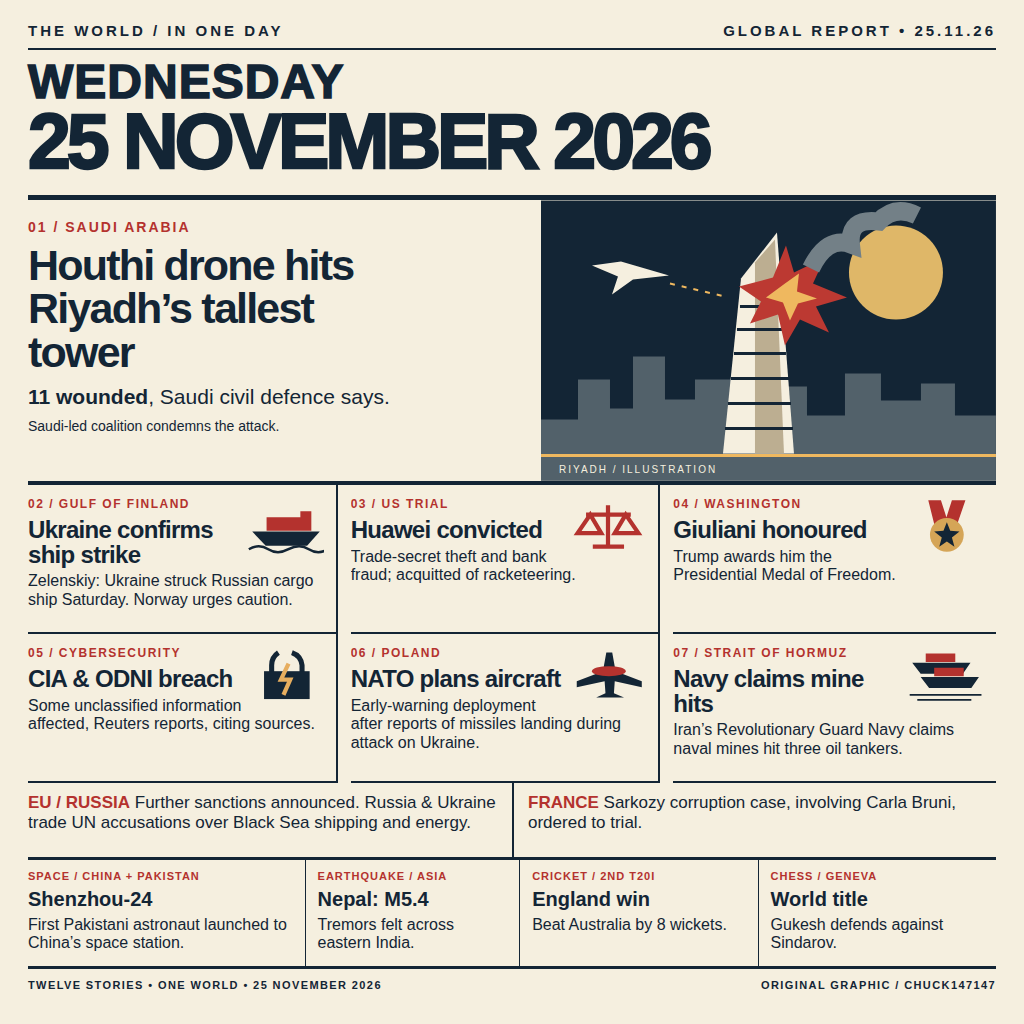
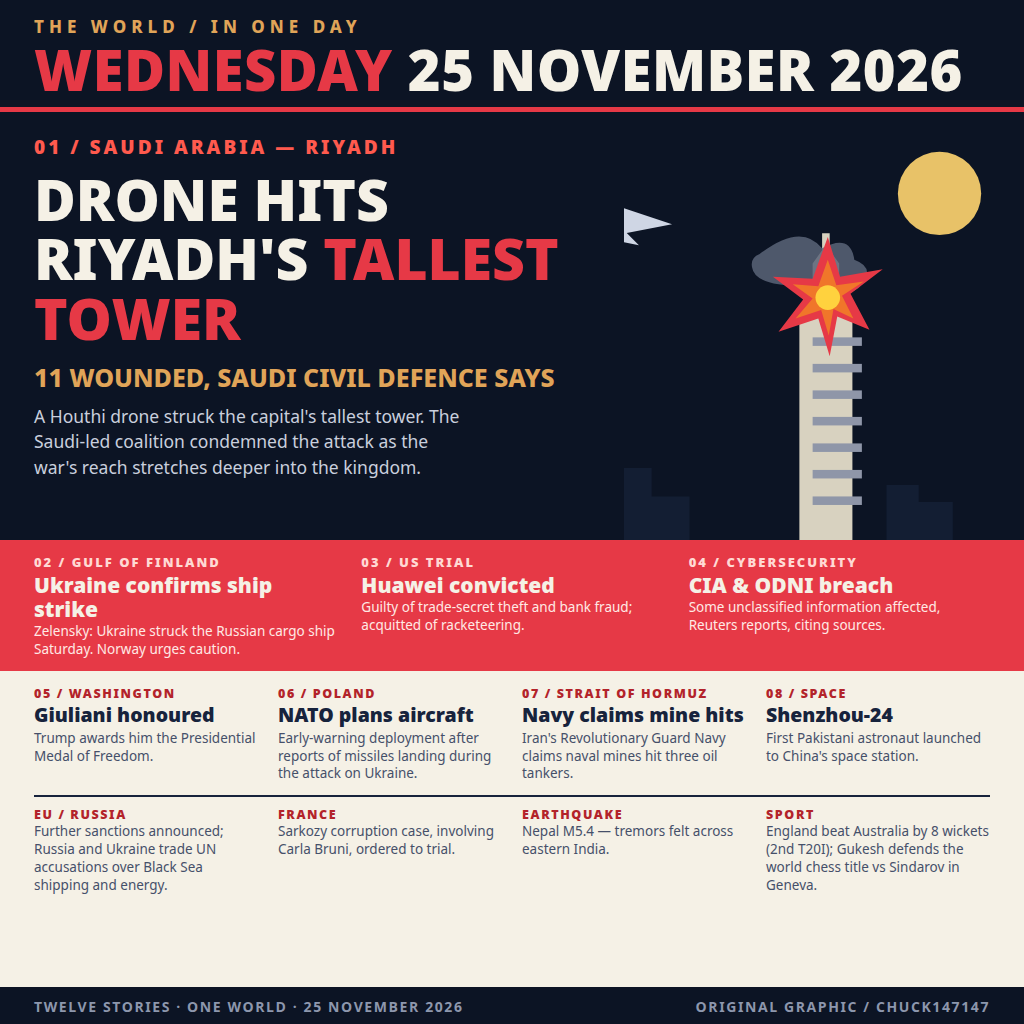
Redesign for visual impact: dark poster layout, oversized type, hero explosion art

diff --git a/news.html b/news.html
@@ -1,20 +1,139 @@
-<!doctype html>
-<html lang="en"><head><meta charset="utf-8"><title>World report · 25 November 2026</title>
+<!DOCTYPE html>
+<html lang="en">
+<head>
+<meta charset="utf-8">
 <style>
-*{box-sizing:border-box}html,body{margin:0;width:1024px;height:1024px;background:#f5efdf;color:#132535;font-family:Arial,Helvetica,sans-serif}body{padding:22px 28px}header{height:178px;border-bottom:5px solid #132535}.top{display:flex;justify-content:space-between;font-size:15px;font-weight:900;letter-spacing:3px;border-bottom:2px solid;padding-bottom:9px}.date{font-weight:950;letter-spacing:-4px;line-height:.95;margin-top:9px}.date .day{font-size:48px;letter-spacing:1px}.date .number{font-size:77px;white-space:nowrap}.lead{height:285px;display:grid;grid-template-columns:53% 47%;border-bottom:4px solid #132535}.leadcopy{padding:19px 20px 10px 0}.tag{color:#b4322e;font-size:14px;font-weight:900;letter-spacing:2px}.lead h1{font-size:43px;line-height:1.01;letter-spacing:-1.8px;margin:9px 0 10px}.lead p{font-size:21px;line-height:1.2;margin:0}.lead small{display:block;font-size:14px;line-height:1.25;margin-top:9px}.hero{width:100%;height:100%}.grid{display:grid;grid-template-columns:repeat(3,1fr);grid-template-rows:149px 149px;gap:0}.card{position:relative;border-bottom:2px solid #132535;padding:12px 12px 10px 0;overflow:hidden}.card:not(:nth-child(3n)){border-right:2px solid #132535;margin-right:13px}.card h2{font-size:24px;line-height:1.03;letter-spacing:-.7px;margin:7px 0 5px;position:relative}.card p{font-size:16px;line-height:1.17;margin:0;position:relative}.card svg{float:right;width:76px;height:58px;margin:0 0 3px 6px}.card .tag{font-size:12px;letter-spacing:1.5px}.briefs{height:77px;display:grid;grid-template-columns:1fr 1fr;border-bottom:3px solid #132535}.briefs div{padding:10px 12px 6px 0;font-size:17px;line-height:1.2}.briefs div+div{border-left:2px solid;padding-left:14px}.briefs b{color:#b4322e}.strip{display:grid;grid-template-columns:1.16fr .9fr 1fr 1fr;height:109px;border-bottom:3px solid #132535}.mini{padding:10px 9px 6px 0;font-size:16px;line-height:1.15}.mini+.mini{border-left:1px solid #132535;padding-left:12px}.mini b{display:block;font-size:20px;margin:5px 0}.mini .tag{font-size:11px;letter-spacing:1px}footer{display:flex;justify-content:space-between;font-size:11px;font-weight:bold;letter-spacing:1.4px;padding-top:10px}
-</style></head><body>
-<header><div class="top"><span>THE WORLD / IN ONE DAY</span><span>GLOBAL REPORT • 25.11.26</span></div><div class="date"><div class="day">WEDNESDAY</div><div class="number">25 NOVEMBER 2026</div></div></header>
-<section class="lead"><div class="leadcopy"><div class="tag">01 / SAUDI ARABIA</div><h1>Houthi drone hits<br>Riyadh’s tallest<br>tower</h1><p><strong>11 wounded</strong>, Saudi civil defence says.</p><small>Saudi-led coalition condemns the attack.</small></div>
-<svg class="hero" viewBox="0 0 455 280" xmlns="http://www.w3.org/2000/svg" aria-label="Drawn Riyadh skyline with a drone strike on a tall tower"><rect width="455" height="280" fill="#132535"/><circle cx="355" cy="72" r="47" fill="#dfb768"/><path d="M0 219H37V179H69V208H92V156H124V199H154V179H194V214H229V186H266V215H304V173H340V200H380V183H414V215H455V280H0Z" fill="#52616a"/><path d="M182 253L200 78L236 32L253 253Z" fill="#f5efdf"/><path d="M214 62L234 39L243 253H214Z" fill="#bcae91"/><path d="M199 106H242M196 129H244M193 153H245M190 178H248M187 203H250M184 228H252" stroke="#132535" stroke-width="3"/><path d="M232 77L245 45L253 72L284 57L272 83L306 97L275 106L288 132L259 119L244 145L237 114L209 123L220 101L198 86Z" fill="#bc3932"/><path d="M244 83L258 73L256 91L276 98L257 103L249 120L242 102L225 97Z" fill="#efb85f"/><path d="M270 68Q286 35 310 44Q307 17 338 21Q354 4 376 15" fill="none" stroke="#738087" stroke-width="18"/><path d="M80 61L128 75L92 79L71 94L77 76L51 65Z" fill="#f5efdf"/><path d="M129 83L184 96" stroke="#efb85f" stroke-width="2" stroke-dasharray="5 7"/><path d="M0 255H455" stroke="#efb85f" stroke-width="3"/><text x="18" y="273" fill="#f5efdf" font-family="Arial" font-size="10" letter-spacing="2">RIYADH / ILLUSTRATION</text></svg></section>
-<div class="grid">
-<article class="card"><svg viewBox="0 0 90 65"><path d="M5 39H85L70 56H21Z" fill="#132535"/><path d="M22 22H62V38H22ZM62 15H75V38H62Z" fill="#b4322e"/><path d="M1 60Q13 53 24 60T48 60T72 60T95 60" fill="none" stroke="#132535" stroke-width="3"/></svg><div class="tag">02 / GULF OF FINLAND</div><h2>Ukraine confirms<br>ship strike</h2><p>Zelenskiy: Ukraine struck Russian cargo ship Saturday. Norway urges caution.</p></article>
-<article class="card"><svg viewBox="0 0 90 65"><path d="M45 8V55M19 19H72M24 19L9 41H37ZM66 19L53 41H81ZM27 57H64" fill="none" stroke="#b4322e" stroke-width="5"/></svg><div class="tag">03 / US TRIAL</div><h2>Huawei convicted</h2><p>Trade-secret theft and bank fraud; acquitted of racketeering.</p></article>
-<article class="card"><svg viewBox="0 0 90 65"><path d="M24 2H39L48 30L32 34ZM52 2H68L57 34L43 30Z" fill="#b4322e"/><circle cx="46" cy="43" r="20" fill="#d5a557"/><path d="M46 28L50 38L61 39L52 46L55 57L46 51L37 57L40 46L31 39L42 38Z" fill="#132535"/></svg><div class="tag">04 / WASHINGTON</div><h2>Giuliani honoured</h2><p>Trump awards him the Presidential Medal of Freedom.</p></article>
-<article class="card"><svg viewBox="0 0 90 65"><path d="M28 30V21A18 18 0 0136 6M52 6A18 18 0 0164 21V30" fill="none" stroke="#132535" stroke-width="6"/><rect x="19" y="28" width="54" height="33" fill="#132535"/><path d="M48 19L39 38H50L42 56" fill="none" stroke="#e7ae5f" stroke-width="5"/></svg><div class="tag">05 / CYBERSECURITY</div><h2>CIA &amp; ODNI breach</h2><p>Some unclassified information affected, Reuters reports, citing sources.</p></article>
-<article class="card"><svg viewBox="0 0 90 65"><path d="M43 6H50L54 28L85 40V47L53 40L52 54L64 59H31L42 54L41 40L8 47V40L39 28Z" fill="#132535"/><ellipse cx="46" cy="28" rx="20" ry="6" fill="#b4322e"/></svg><div class="tag">06 / POLAND</div><h2>NATO plans aircraft</h2><p>Early-warning deployment after reports of missiles landing during attack on Ukraine.</p></article>
-<article class="card"><svg viewBox="0 0 90 65"><path d="M5 18H74L65 31H15ZM15 35H84L75 48H25Z" fill="#132535"/><path d="M21 7H56V17H21ZM31 24H66V34H31Z" fill="#b4322e"/><path d="M2 56H87M11 62H75" stroke="#132535" stroke-width="2"/></svg><div class="tag">07 / STRAIT OF HORMUZ</div><h2>Navy claims mine hits</h2><p>Iran’s Revolutionary Guard Navy claims naval mines hit three oil tankers.</p></article>
-</div>
-<div class="briefs"><div><b>EU / RUSSIA</b> Further sanctions announced. Russia &amp; Ukraine trade UN accusations over Black Sea shipping and energy.</div><div><b>FRANCE</b> Sarkozy corruption case, involving Carla Bruni, ordered to trial.</div></div>
-<div class="strip"><div class="mini"><div class="tag">SPACE / CHINA + PAKISTAN</div><b>Shenzhou-24</b>First Pakistani astronaut launched to China’s space station.</div><div class="mini"><div class="tag">EARTHQUAKE / ASIA</div><b>Nepal: M5.4</b>Tremors felt across eastern India.</div><div class="mini"><div class="tag">CRICKET / 2ND T20I</div><b>England win</b>Beat Australia by 8 wickets.</div><div class="mini"><div class="tag">CHESS / GENEVA</div><b>World title</b>Gukesh defends against Sindarov.</div></div>
-<footer><span>TWELVE STORIES • ONE WORLD • 25 NOVEMBER 2026</span><span>ORIGINAL GRAPHIC / CHUCK147147</span></footer>
-</body></html>
+  * { margin: 0; padding: 0; box-sizing: border-box; }
+  body { width: 1024px; height: 1024px; font-family: "Noto Sans", "DejaVu Sans", sans-serif; background: #0c1424; color: #f5f1e6; overflow: hidden; }
+  .mast { padding: 15px 34px 9px; border-bottom: 5px solid #e63946; }
+  .mast .brand { font-size: 17px; letter-spacing: 5px; color: #e0a458; font-weight: 800; }
+  .mast .date { font-size: 56px; font-weight: 900; line-height: 1.02; letter-spacing: 0.5px; margin-top: 3px; }
+  .mast .date .wd { color: #e63946; }
+  .hero { display: flex; height: 428px; }
+  .hero .txt { flex: 1; padding: 22px 10px 0 34px; }
+  .kicker { color: #ff5a4e; font-weight: 900; font-size: 19px; letter-spacing: 3px; }
+  .hero h1 { font-size: 57px; line-height: 1.04; font-weight: 900; margin: 10px 0 12px; }
+  .hero h1 .red { color: #e63946; }
+  .hero .sub { font-size: 25px; font-weight: 800; color: #e0a458; }
+  .hero .body { font-size: 17.5px; line-height: 1.45; color: #c9cfdd; margin-top: 10px; max-width: 430px; }
+  .hero .art { width: 400px; position: relative; }
+  .band { background: #e63946; display: flex; padding: 13px 34px; gap: 26px; }
+  .band .item { flex: 1; }
+  .band .n { font-size: 13px; font-weight: 900; letter-spacing: 2px; color: #ffd9d4; }
+  .band .h { font-size: 21px; font-weight: 900; line-height: 1.15; margin: 2px 0 2px; }
+  .band .p { font-size: 13.5px; line-height: 1.3; color: #ffe9e5; }
+  .lower { background: #f5f1e6; color: #17233c; padding: 14px 34px 8px; height: 316px; }
+  .grid { display: grid; grid-template-columns: repeat(4, 1fr); gap: 12px 20px; }
+  .cell .tag { font-size: 12.5px; font-weight: 900; letter-spacing: 1.6px; color: #b3232a; }
+  .cell h3 { font-size: 19.5px; font-weight: 900; line-height: 1.14; margin: 2px 0 3px; }
+  .cell p { font-size: 13.5px; line-height: 1.32; color: #46506a; }
+  .wide { display: flex; gap: 20px; margin-top: 12px; border-top: 2.5px solid #17233c; padding-top: 9px; }
+  .wide .cell { flex: 1; }
+  footer { display: flex; justify-content: space-between; padding: 10px 34px; font-size: 14px; letter-spacing: 1.6px; color: #8d97ad; font-weight: 700; }
+</style>
+</head>
+<body>
+  <div class="mast">
+    <div class="brand">THE WORLD / IN ONE DAY</div>
+    <div class="date"><span class="wd">WEDNESDAY</span> 25 NOVEMBER 2026</div>
+  </div>
+
+  <div class="hero">
+    <div class="txt">
+      <div class="kicker">01 / SAUDI ARABIA — RIYADH</div>
+      <h1>DRONE HITS RIYADH'S <span class="red">TALLEST TOWER</span></h1>
+      <div class="sub">11 WOUNDED, SAUDI CIVIL DEFENCE SAYS</div>
+      <div class="body">A Houthi drone struck the capital's tallest tower. The Saudi-led coalition condemned the attack as the war's reach stretches deeper into the kingdom.</div>
+    </div>
+    <div class="art">
+      <svg width="400" height="428" viewBox="0 0 400 452">
+        <circle cx="322" cy="86" r="44" fill="#e8c268"/>
+        <g transform="translate(-64,0)">
+        <path d="M238 452 V210 l14-26 v-24 l10-14 v-18 h8 v18 l10 14 v24 l14 26 V452 Z" fill="#d8d2c0"/>
+        <g fill="#8f96a8">
+          <rect x="252" y="238" width="52" height="9"/><rect x="252" y="266" width="52" height="9"/>
+          <rect x="252" y="294" width="52" height="9"/><rect x="252" y="322" width="52" height="9"/>
+          <rect x="252" y="350" width="52" height="9"/><rect x="252" y="378" width="52" height="9"/>
+          <rect x="252" y="406" width="52" height="9"/>
+        </g>
+        <path d="M0 452 V398 h44 v-22 h38 v30 h40 v46 Z" fill="#131e33"/>
+        <path d="M400 452 v-40 h-36 v-18 h-34 v58 Z" fill="#131e33"/>
+        <path d="M40 96 l66 22 -52 10 14 14 -30 -6 -8 20 -8 -22 -26 -8 24 -10 -6 -16 18 8 Z" fill="#cfd6e4" transform="translate(6,10) scale(0.92)"/>
+        <path d="M196 150 q44 -34 66 -6 q30 -16 34 12 q22 8 8 26 q-8 12 -30 8 l-58 -8 q-26 -4 -28 -18 q-2 -10 8 -14 Z" fill="#5b6478" opacity="0.85"/>
+        <g transform="translate(268,196)">
+          <path d="M0 -64 L13 -22 L58 -30 L24 -4 L44 34 L10 20 L2 62 L-10 22 L-52 36 L-26 2 L-58 -22 L-16 -20 Z" fill="#e63946"/>
+          <path d="M0 -40 L9 -13 L38 -17 L15 -2 L27 22 L6 12 L1 40 L-7 13 L-34 22 L-16 1 L-37 -14 L-10 -12 Z" fill="#f0762a"/>
+          <circle r="13" fill="#ffd23e"/>
+        </g>
+        </g>
+      </svg>
+    </div>
+  </div>
+
+  <div class="band">
+    <div class="item">
+      <div class="n">02 / GULF OF FINLAND</div>
+      <div class="h">Ukraine confirms ship strike</div>
+      <div class="p">Zelensky: Ukraine struck the Russian cargo ship Saturday. Norway urges caution.</div>
+    </div>
+    <div class="item">
+      <div class="n">03 / US TRIAL</div>
+      <div class="h">Huawei convicted</div>
+      <div class="p">Guilty of trade-secret theft and bank fraud; acquitted of racketeering.</div>
+    </div>
+    <div class="item">
+      <div class="n">04 / CYBERSECURITY</div>
+      <div class="h">CIA &amp; ODNI breach</div>
+      <div class="p">Some unclassified information affected, Reuters reports, citing sources.</div>
+    </div>
+  </div>
+
+  <div class="lower">
+    <div class="grid">
+      <div class="cell">
+        <div class="tag">05 / WASHINGTON</div>
+        <h3>Giuliani honoured</h3>
+        <p>Trump awards him the Presidential Medal of Freedom.</p>
+      </div>
+      <div class="cell">
+        <div class="tag">06 / POLAND</div>
+        <h3>NATO plans aircraft</h3>
+        <p>Early-warning deployment after reports of missiles landing during the attack on Ukraine.</p>
+      </div>
+      <div class="cell">
+        <div class="tag">07 / STRAIT OF HORMUZ</div>
+        <h3>Navy claims mine hits</h3>
+        <p>Iran's Revolutionary Guard Navy claims naval mines hit three oil tankers.</p>
+      </div>
+      <div class="cell">
+        <div class="tag">08 / SPACE</div>
+        <h3>Shenzhou-24</h3>
+        <p>First Pakistani astronaut launched to China's space station.</p>
+      </div>
+    </div>
+    <div class="wide">
+      <div class="cell">
+        <div class="tag">EU / RUSSIA</div>
+        <p>Further sanctions announced; Russia and Ukraine trade UN accusations over Black Sea shipping and energy.</p>
+      </div>
+      <div class="cell">
+        <div class="tag">FRANCE</div>
+        <p>Sarkozy corruption case, involving Carla Bruni, ordered to trial.</p>
+      </div>
+      <div class="cell">
+        <div class="tag">EARTHQUAKE</div>
+        <p>Nepal M5.4 — tremors felt across eastern India.</p>
+      </div>
+      <div class="cell">
+        <div class="tag">SPORT</div>
+        <p>England beat Australia by 8 wickets (2nd T20I); Gukesh defends the world chess title vs Sindarov in Geneva.</p>
+      </div>
+    </div>
+  </div>
+
+  <footer>
+    <span>TWELVE STORIES · ONE WORLD · 25 NOVEMBER 2026</span>
+    <span>ORIGINAL GRAPHIC / CHUCK147147</span>
+  </footer>
+</body>
+</html>
